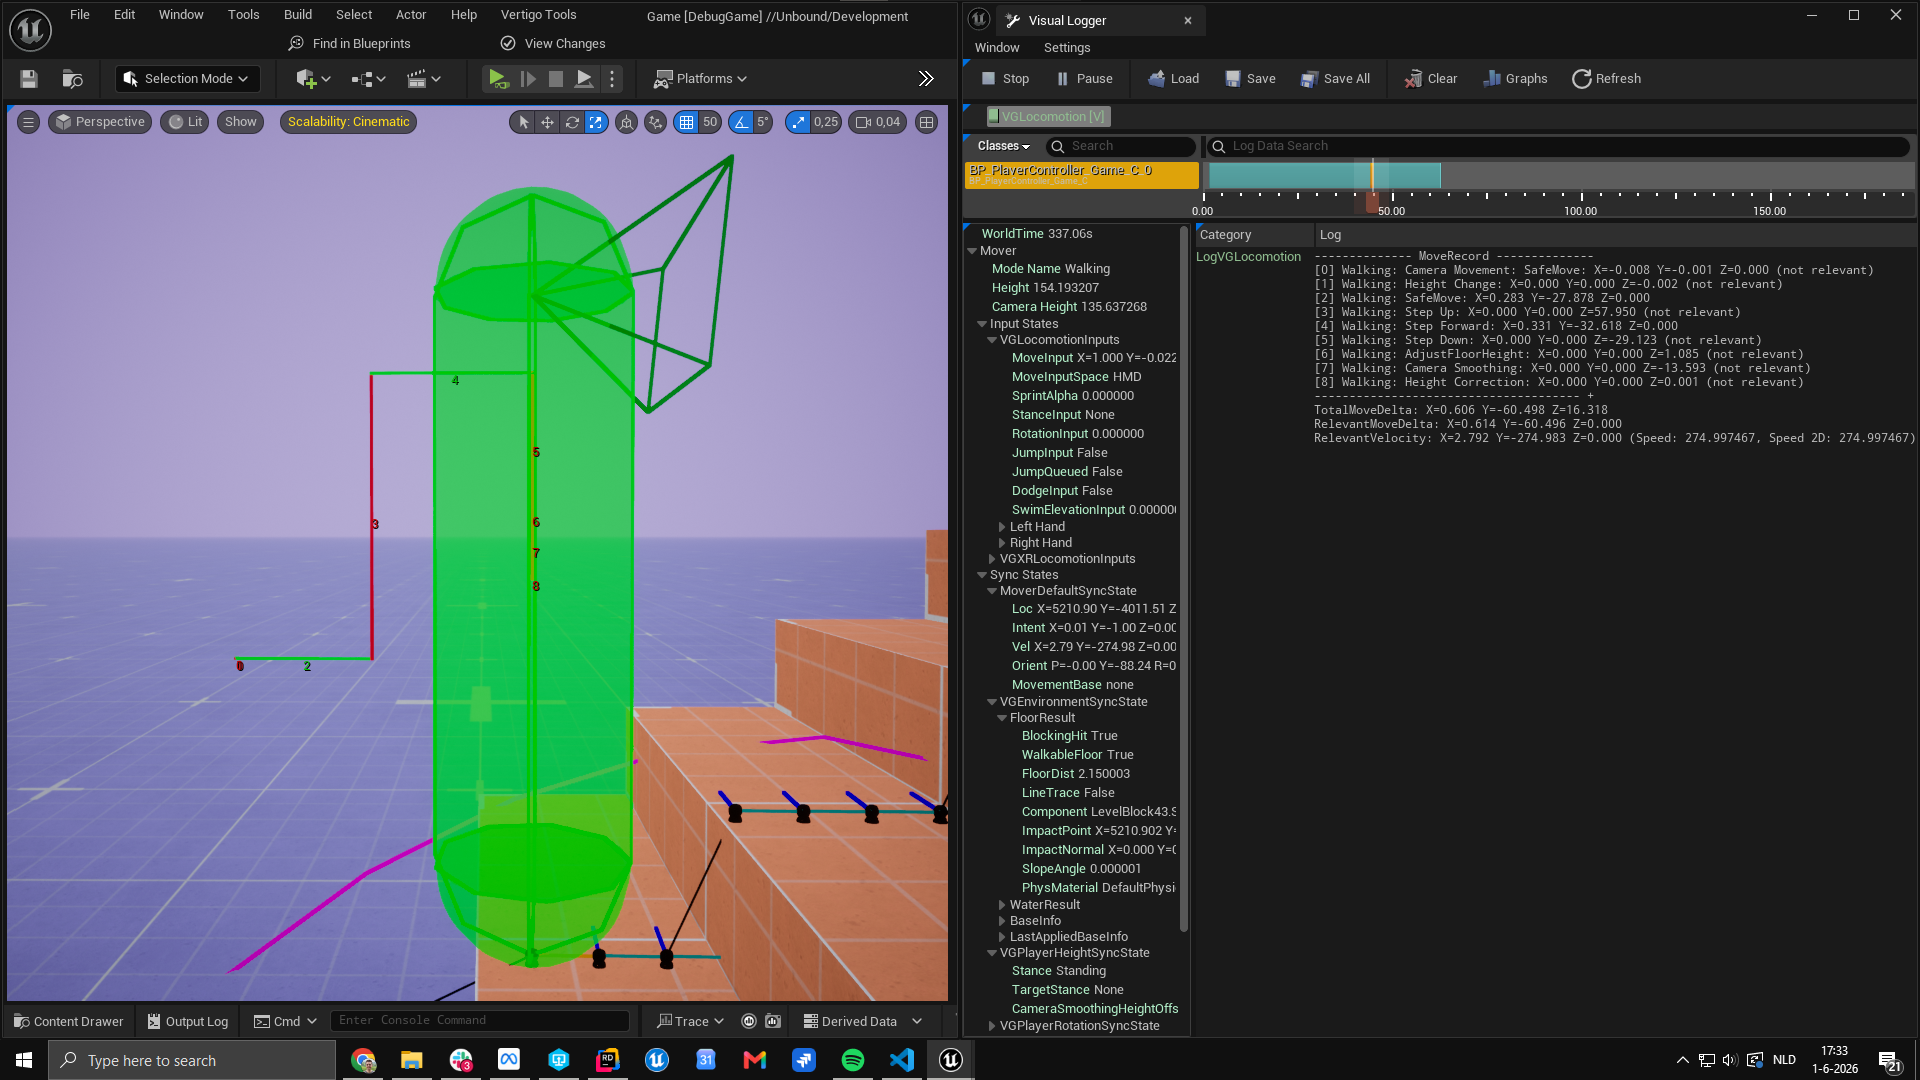
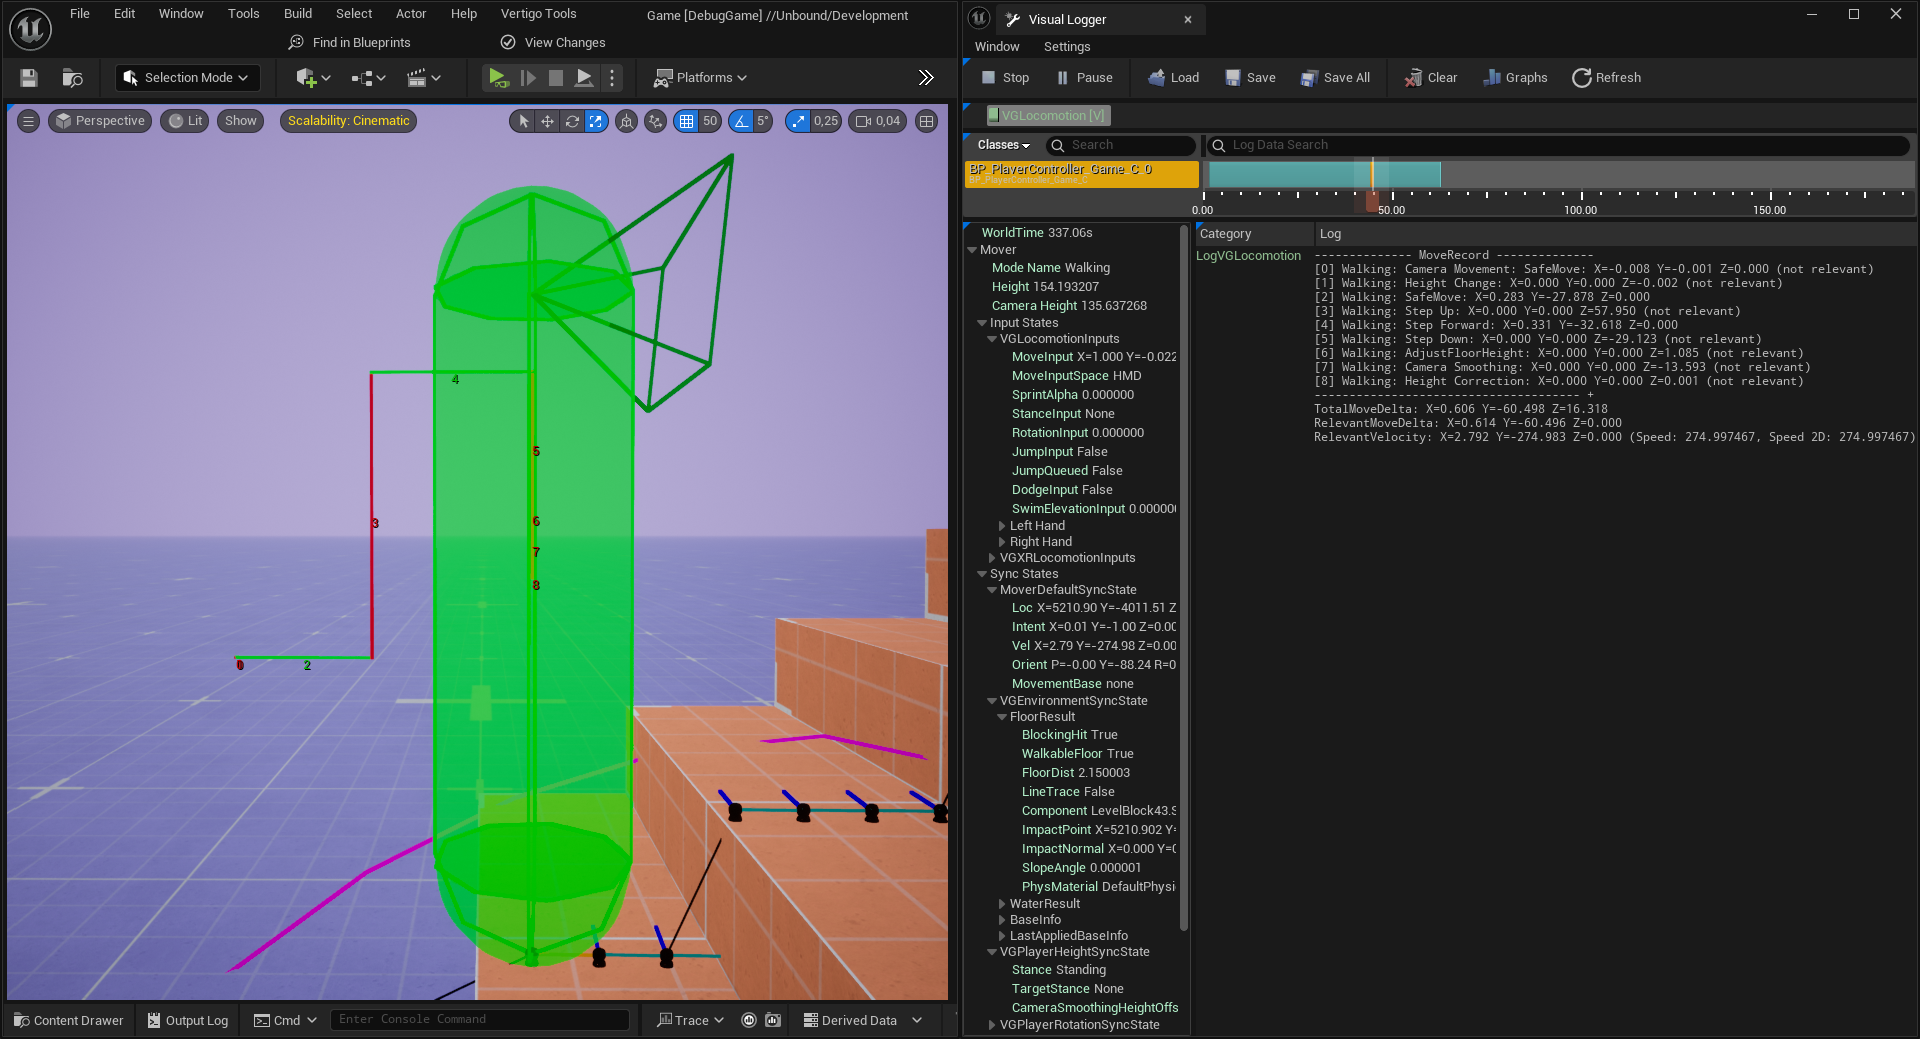
Crop and optimize videos.

diff --git a/_portfolio/Unbound.md b/_portfolio/Unbound.md
@@ -24,32 +24,32 @@ This was a massive technical undertaking that I owned end-to-end. Beyond the eng
 Since our movement system needed to be so varied and custom, I decided to use [Unreal's Mover system](https://dev.epicgames.com/documentation/en-us/unreal-engine/mover-in-unreal-engine) as a base. Its architecture makes it easy to create independent movement modes, which lent itself perfectly to this project. Mover also has support for Trajectory Generation, which we needed for the [Motion Matching](https://dev.epicgames.com/documentation/en-us/unreal-engine/motion-matching-in-unreal-engine) animation approach we were taking for our player character.
 
 <style>
-.video-grid {
+.video-grid, .video-grid__responsive {
     display: grid;
     gap: 1em;
     grid-template-columns: 1fr 1fr;
 }
 
 @container (max-width: 650px) {
-    .video-grid {
+    .video-grid__responsive {
         grid-template-columns: 1fr;
     }
 }
 </style>
 
 <div style="container-type: inline-size">
-    <div class="video-grid">
+    <div class="video-grid__responsive">
         <video autoplay muted loop width="100%">
-            <source src="/assets/portfolio/unbound/platforming.mp4" type="video/mp4">
+            <source src="/assets/portfolio/unbound/platforming-optimized.mp4" type="video/mp4">
         </video>
         <video autoplay muted loop width="100%">
-            <source src="/assets/portfolio/unbound/sliding.mp4" type="video/mp4">
+            <source src="/assets/portfolio/unbound/sliding-optimized.mp4" type="video/mp4">
         </video>
         <video autoplay muted loop width="100%">
-            <source src="/assets/portfolio/unbound/climbing.mp4" type="video/mp4">
+            <source src="/assets/portfolio/unbound/climbing-optimized.mp4" type="video/mp4">
         </video>
         <video autoplay muted loop width="100%">
-            <source src="/assets/portfolio/unbound/swimming.mp4" type="video/mp4">
+            <source src="/assets/portfolio/unbound/swimming-optimized.mp4" type="video/mp4">
         </video>
     </div>
 </div>
@@ -98,7 +98,7 @@ It would also be noticeable if the height correction would move you too far. Tha
 The height correction shouldn't be applied when a player is actively moving their head up and down, as this would disrupt the movement parity between their head and their view, which would be uncomfortable and lead to motion sickness. To prevent this, I simply check if the player is moving their head up or down faster than a generously small threshold of 10cm/s.
 
 <video autoplay muted loop width="100%">
-    <source src="/assets/portfolio/unbound/camera-movement/height-correction-with-text.mp4" type="video/mp4">
+    <source src="/assets/portfolio/unbound/camera-movement/height-correction-with-text-cropped.mp4" type="video/mp4">
 </video>
 
 A problem I ran into was that, due to human anatomy, pitching you head up or down would also move the headset up or down. The height correction system was adjusting for this, which felt unnatural.  
@@ -106,7 +106,7 @@ To fix this, I measured how the headset moved as different people pitched their 
 As an added bonus, I was also able to use this offset in other scenarios. If your height is being clamped, for example, you'll still be able to pitch your head without the clamping affecting that movement.
 
 <video autoplay muted loop width="100%">
-    <source src="/assets/portfolio/unbound/camera-movement/height-prediction.mp4" type="video/mp4">
+    <source src="/assets/portfolio/unbound/camera-movement/height-prediction-cropped.mp4" type="video/mp4">
 </video>
 
 ![](/assets/portfolio/unbound/camera-movement/pitch-to-camera-offset.png)
@@ -134,7 +134,7 @@ I wrote an algorithm which takes all the trajectory points, filters them and use
 2. While the player was walking around, any height changes would be ignored by the camera. Then, after all the movement was performed, a camera smoothing step was responsible for moving the camera back into alignment. Based on the ground plane estimate that was computed earlier, I could calculate where we estimate the player character to be in 2 meters. For this location, there was also a desired camera location. Then, it was as simple as moving the camera along the line between the previous camera location and the desired camera location. If the ground angle didn't change, the camera would be realigned after 2 meters.
 
 <video autoplay muted loop width="100%">
-    <source src="/assets/portfolio/unbound/camera-smoothing/visual-log.mp4" type="video/mp4">
+    <source src="/assets/portfolio/unbound/camera-smoothing/visual-log-cropped.mp4" type="video/mp4">
 </video>
 
 *The desired camera height (purple line) is drawn based on the 'ground plane estimate' (magenta circle). The camera is moved along the yellow line, so that it'll be at the desired height after 2 meters.*
@@ -143,7 +143,7 @@ The beauty of this system is that it doesn't just respond to height changes, it 
 Another advantage of this system is that it's stable when walking along a longer slope. Once the camera is realigned at the desired height, the '2 meter long line we move the camera along' will be parallel with the ground. This means that the camera will stably remain at the desired height, as if the smoothing wasn't even there.
 
 <div style="container-type: inline-size">
-    <div class="video-grid">
+    <div class="video-grid__responsive">
         <video autoplay muted loop width="100%">
             <source src="/assets/portfolio/unbound/camera-smoothing/disabled.mp4" type="video/mp4">
         </video>
@@ -227,7 +227,7 @@ The heights at which I check for mantle destinations also ensure that players wi
 The height checks also ensure that players will never mantle downwards. Instead they can position themselves over the platform, dropping themselves onto it.
 
 <video autoplay muted loop width="100%">
-    <source src="/assets/portfolio/unbound/mantling/dynamic-mantling.mp4" type="video/mp4">
+    <source src="/assets/portfolio/unbound/mantling/dynamic-mantling-cropped.mp4" type="video/mp4">
 </video>
 
 {% endcapture_markdown %}
@@ -248,14 +248,15 @@ $$\Delta \vec{\omega} = \frac{\vec{r} \times \vec{g}}{\Vert \vec{r} \Vert^{2}} \
 
 Where:
 
-- $\Delta \vec{\omega}$ is the change in angular velocity.
-- $\vec{r}$ is the position vector from the pivot to the pendulum bob, in our case the player.
-- $\Vert \vec{r} \Vert$ is the the length of the pendulum string.
-- $\vec{g}$ is the gravitation acceleration vector.
-- $\Delta t$ is the time step.
+- $$\Delta \vec{\omega}$$ is the change in angular velocity.
+- $$\vec{r}$$ is the position vector from the pivot to the pendulum bob, in our case the player.
+- $$\Vert \vec{r} \Vert$$ is the the length of the pendulum string.
+- $$\vec{g}$$ is the gravitation acceleration vector.
+- $$\Delta t$$ is the time step.
 
 This simple formula results in a stable pendulum motion, as long as you add sub-stepping to prevent lag spikes or low fps from introducing instability.  
-I also added some simple linear $(c_l)$ and quadratic $(c_q)$ drag:
+I also added some simple linear $$(c_l)$$ and quadratic $$(c_q)$$ drag:
+
 $$\Delta \vec{\omega} = - (c_l \Vert \vec{\omega} \Vert + c_q \Vert \vec{\omega} \Vert^2) \cdot \Delta t$$
 
 ### Player Input
@@ -314,10 +315,10 @@ During a regular non-orbiting swing, the `AngularAcceleration` vector is perpend
 <div style="container-type: inline-size">
     <div class="video-grid">
         <video autoplay muted loop width="100%">
-            <source src="/assets/portfolio/unbound/rope-swinging/orbiting-before.mp4" type="video/mp4">
+            <source src="/assets/portfolio/unbound/rope-swinging/orbiting-before-cropped.mp4" type="video/mp4">
         </video>
         <video autoplay muted loop width="100%">
-            <source src="/assets/portfolio/unbound/rope-swinging/orbiting-after.mp4" type="video/mp4">
+            <source src="/assets/portfolio/unbound/rope-swinging/orbiting-after-cropped.mp4" type="video/mp4">
         </video>
     </div>
 </div>
@@ -333,26 +334,24 @@ $$\Vert \vec{\omega} \Vert = \sqrt{\frac{2 \cdot \Vert \vec{g} \Vert \cdot (\cos
 {% capture_markdown swing_angle_clamping_derivation %}
 #### Derivation
 
-We can calculate the maximum velocity by using conservation of energy.  
-At the given angle $(\theta_i)$, the system will have some amount of potential energy $(E_{p,i})$ and kinetic energy $(E_{k,i})$.  
-At the maximum angle $(\theta_{\text{max}})$, the system will have some amount of potential energy $(E_{p,f})$ but no kinetic energy.  
+We can calculate the maximum velocity by using conservation of energy. At the given angle $$(\theta_i)$$, the system will have some amount of potential energy $$(E_{p,i})$$ and kinetic energy $$(E_{k,i})$$. At the maximum angle $$(\theta_{\text{max}})$$, the system will have some amount of potential energy $$(E_{p,f})$$ but no kinetic energy.  
 As energy is conserved:
 
 $$E_{p,i} + E_{k,i} = E_{p,f}$$
 
-Substitute $E_p = m g h$ and $E_k = \frac{1}{2} m \Vert \vec{v} \Vert^2$
+Substitute $$E_p = m g h$$ and $$E_k = \frac{1}{2} m \Vert \vec{v} \Vert^2$$
 
 $$m \Vert \vec{g} \Vert h_i + \frac{1}{2} m \Vert \vec{v}_i \Vert^2 = m \Vert \vec{g} \Vert h_f$$
 
-Substitute $h = \Vert r \Vert (1 - \cos(\theta))$ and $\vec{v} = \vec{\omega} \times \vec{r}$
+Substitute $$h = \Vert r \Vert (1 - \cos(\theta))$$ and $$\vec{v} = \vec{\omega} \times \vec{r}$$
 
 $$m \Vert \vec{g} \Vert \Vert r \Vert (1 - \cos(\theta_i)) + \frac{1}{2} m \Vert \vec{\omega} \times \vec{r} \Vert^2 = m \Vert \vec{g} \Vert \Vert r \Vert (1 - \cos(\theta_{\text{max}}))$$
 
-Substitute $\Vert \vec{a} \times \vec{b} \Vert = \Vert \vec{a} \Vert \Vert \vec{b} \Vert \sin(\angle(\vec{a} \times \vec{b}))$
+Substitute $$\Vert \vec{a} \times \vec{b} \Vert = \Vert \vec{a} \Vert \Vert \vec{b} \Vert \sin(\angle(\vec{a} \times \vec{b}))$$
 
 $$m \Vert \vec{g} \Vert \Vert r \Vert (1 - \cos(\theta_i)) + \frac{1}{2} m (\Vert \vec{\omega} \Vert \Vert \vec{r} \Vert \sin(\angle(\vec{\omega}, \vec{r})))^2 = m \Vert \vec{g} \Vert \Vert r \Vert (1 - \cos(\theta_{\text{max}}))$$
 
-Solve for $\Vert \vec{\omega} \Vert$
+Solve for $$\Vert \vec{\omega} \Vert$$
 
 $$\Vert \vec{g} \Vert \Vert r \Vert (1 - \cos(\theta_i)) + \frac{1}{2} (\Vert \vec{\omega} \Vert \Vert \vec{r} \Vert \sin(\angle(\vec{\omega}, \vec{r})))^2 = \Vert \vec{g} \Vert \Vert r \Vert (1 - \cos(\theta_{\text{max}}))$$
 
@@ -371,7 +370,7 @@ $$\Vert \vec{\omega} \Vert = \sqrt{\frac{2 \Vert \vec{g} \Vert (\cos(\theta_i) -
 
 {% include card.html excerpt=swing_angle_clamping_formula collapsed_content=swing_angle_clamping_derivation %}
 
-This formula does have one issue, in that it doesn't return a real result if $\theta > \theta_{\text{max}}$. Returning 0 instead makes sense, but does mean that the rope would get stuck if it ever got higher than the maximum angle. Which can happen due to floating point innacuaries and the discrete math. To solve this, I simply interpolated the `AngularVelocity` to this maximum angular speed instead. This meant the rope would never get fully stuck, but would in practice still be clamped to within a degree of the maximum swing angle.
+This formula does have one issue, in that it doesn't return a real result if $$\theta > \theta_{\text{max}}$$. Returning 0 instead makes sense, but does mean that the rope would get stuck if it ever got higher than the maximum angle. Which can happen due to floating point innacuaries and the discrete math. To solve this, I simply interpolated the `AngularVelocity` to this maximum angular speed instead. This meant the rope would never get fully stuck, but would in practice still be clamped to within a degree of the maximum swing angle.
 
 {% endcapture_markdown %}
 
@@ -384,10 +383,11 @@ This formula does have one issue, in that it doesn't return a real result if $\t
 {% capture_markdown swimming %}
 
 We wanted the swimming mode to feel realistic, requiring the player to actually swing their arms to move themselves around. That's why I decided to model the entire system around drag. The player's body would experience water drag, slowing them down. But the hands would also experience drag as the player swung them around, speeding the player up.  
-The formula for drag boils down to $F = c \cdot v^2$, where $F$ is the drag force, $c$ is an amalgamation of various constants and $v$ is the velocity difference between the object and the water. While this was physically accurate, it didn't feel good. The exponential nature of drag meant that the drag on the body felt too strong while you were moving quickly, but it also wasn't strong enough to bring you too a full stop. That's why I setup a system which allowed us to tweak constant, linear and quadratic drag separately. This gave us the tools to tweak the system to feel as floaty as you'd expect from swimming, while still giving you a sense of control. I used this simple formula:  
+The formula for drag boils down to $$F = c \cdot v^2$$, where $$F$$ is the drag force, $$c$$ is an amalgamation of various constants and $$v$$ is the velocity difference between the object and the water. While this was physically accurate, it didn't feel good. The exponential nature of drag meant that the drag on the body felt too strong while you were moving quickly, but it also wasn't strong enough to bring you too a full stop. That's why I setup a system which allowed us to tweak constant, linear and quadratic drag separately. This gave us the tools to tweak the system to feel as floaty as you'd expect from swimming, while still giving you a sense of control. I used this simple formula:
+
 $$v_f = v_i - \Delta t(c_q \cdot v_i^2 + c_l \cdot v_i + c_c)$$
 
-I did run into an issue, in that the drag felt inconsistent due to the discrete calculation. This is because the deceleration was calculated for the full timestep $t$, as if we were moving with a velocity of $v_i$ for the full timestep. In reality, that deceleration would constantly lower $v_i$ and thus the deceleration would also be lower. The simple calculation thus resulted in a deceleration that was too high and inconsistent depending on frame rate.  
+I did run into an issue, in that the drag felt inconsistent due to the discrete calculation. This is because the deceleration was calculated for the full timestep $$t$$, as if we were moving with a velocity of $$v_i$$ for the full timestep. In reality, that deceleration would constantly lower $$v_i$$ and thus the deceleration would also be lower. The simple calculation thus resulted in a deceleration that was too high and inconsistent depending on frame rate.  
 The solution was to use integration, to calculate the area under the velocity curve. This results in the following formula:
 
 {% capture_markdown swimming_formula %}
@@ -397,7 +397,7 @@ $$v(t) = \frac{c_l \cdot v_0 \cdot e^{-c_lt}}{c_l + c_q \cdot v_0(1 - e^{-c_lt})
 {% capture_markdown swimming_derivation%}
 ### Derivation
 
-We look at the velocity change $(dv)$ over an infinitesimally small time step $(dt)$.
+We look at the velocity change $$(dv)$$ over an infinitesimally small time step $$(dt)$$.
 
 $$\frac{dv}{dt} = -(c_q v^2 + c_l v)$$
 
@@ -413,8 +413,8 @@ $$\frac{1}{v(c_q v + c_l)} = \frac{A}{v} + \frac{B}{c_q v + c_l}$$
 
 $$1 = A(c_q v + c_l) + Bv$$
 
-If $v = 0$, then $1 = A(c_l) + B \cdot 0 \implies A = 1/c_l$  
-If $v = -c_l / c_q$, then $1 = A(0) + B(-c_l / c_q) \implies B = -c_q / c_l$.
+If $$v = 0$$, then $$1 = A(c_l) + B \cdot 0 \implies A = 1/c_l$$  
+If $$v = -c_l / c_q$$, then $$1 = A(0) + B(-c_l / c_q) \implies B = -c_q / c_l$$.
 
 Substitute and integrate.
 
@@ -430,7 +430,7 @@ $$\frac{1}{c_l} \left( \ln \left| \frac{v_t}{c_q v_t + c_l} \right| - \ln \left|
 
 $$\ln \left| \frac{v_t(c_q v_0 + c_l)}{v_0(c_q v_t + c_l)} \right| = -c_l t$$
 
-Solve for $v_t$ and simplify.
+Solve for $$v_t$$ and simplify.
 
 $$\frac{v_t(c_q v_0 + c_l)}{v_0(c_q v_t + c_l)} = e^{-c_l t}$$
 
@@ -484,10 +484,10 @@ FVector UVGSwimmingUtils::ApplyDrag(const FVector& Velocity, const float Mass,
 }
 {% endhighlight %}
 
-While writing this I figured I'd give the full derivation a shot, with the constant drag included in the integration. The math does work out, but unfortunately splits off into 3 separate cases based on the sign of $k$, and a case if the quadratic drag is 0.
+While writing this I figured I'd give the full derivation a shot, with the constant drag included in the integration. The math does work out, but unfortunately splits off into 3 separate cases based on the sign of $$k$$, and a case if the quadratic drag is 0.
 
 {% capture_markdown swimming_derivation_full %}
-We look at the velocity change $(dv)$ over an infinitesimally small time step $(dt)$.
+We look at the velocity change $$(dv)$$ over an infinitesimally small time step $$(dt)$$.
 
 $$\frac{dv}{dt} = -(c_q v^2 + c_l v + c_c)$$
 
@@ -507,16 +507,16 @@ $$c_q \left( \left(v + \frac{c_l}{2c_q} \right)^2 - \left( \frac{c_l}{2c_q} \rig
 
 $$c_q \left( \left(v + \frac{c_l}{2c_q} \right)^2 + \frac{c_c}{c_q} - \left( \frac{c_l}{2c_q} \right)^2 \right)$$
 
-We now have an equation in the completed-square form: $(v + h)^2 + k$,  
-where h = $\frac{c_l}{2c_q}$ and k = $\frac{c_c}{c_q} - h^2$.
+We now have an equation in the completed-square form: $$(v + h)^2 + k$$,  
+where h = $$\frac{c_l}{2c_q}$$ and k = $$\frac{c_c}{c_q} - h^2$$.
 
 $$\int_{v_0}^{v_t} \frac{1}{c_q((v + h)^2 + k)} dv = \int_0^t -dt$$
 
 $$\frac{1}{c_q} \int_{v_0}^{v_t} \frac{1}{(v + h)^2 + k} dv = \int_0^t -dt$$
 
-Case 1: $k > 0$.  
-We use the standard form $\int \frac{1}{u^2 + a^2} du = \frac{1}{a} \arctan(\frac{u}{a})$.  
-Let $a^2 = k$ and $u = v + h$.
+Case 1: $$k > 0$$.  
+We use the standard form $$\int \frac{1}{u^2 + a^2} du = \frac{1}{a} \arctan(\frac{u}{a})$$.  
+Let $$a^2 = k$$ and $$u = v + h$$.
 
 $$\frac{1}{c_q} \int_{u_0}^{u_t} \frac{1}{u^2 + a^2} du = \int_0^t -dt$$
 
@@ -532,9 +532,9 @@ $$u_t = a \cdot \tan \left( \arctan \left( \frac{u_0}{a} \right) - c_q a t \righ
 
 $$v_t = \sqrt{k} \cdot \tan \left( \arctan \left( \frac{v_0 + h}{\sqrt{k}} \right) - c_q \sqrt{k} t \right) - h$$
 
-Case 2: $k < 0$  
-We use the standard form $\int \frac{1}{u^2 - a^2} du = -\frac{1}{a} \text{artanh}(\frac{u}{a})$  
-Let $-a^2 = k$ and $u = v + h$
+Case 2: $$k < 0$$  
+We use the standard form $$\int \frac{1}{u^2 - a^2} du = -\frac{1}{a} \text{artanh}(\frac{u}{a})$$  
+Let $$-a^2 = k$$ and $$u = v + h$$
 
 $$\frac{1}{c_q} \int_{u_0}^{u_t} \frac{1}{u^2 - a^2} du = \int_0^t -dt$$
 
@@ -550,7 +550,7 @@ $$u_t = a \cdot \tanh \left( \operatorname{artanh} \left( \frac{u_0}{a} \right) 
 
 $$v_t = \sqrt{k} \cdot \tanh \left( \operatorname{artanh} \left( \frac{v_0 + h}{\sqrt{k}} \right) + c_q \sqrt{k} t \right) - h$$
 
-Case 3: $k = 0$
+Case 3: $$k = 0$$
 
 $$\frac{1}{c_q} \int_{v_0}^{v_t} \frac{1}{(v + h)^2} dv = \int_0^t -dt$$
 
@@ -618,7 +618,8 @@ The sliding system has 3 different slide 'styles' depending on angle of the grou
 ### Horizontal Ground
 
 On horizontal ground, the player can initiate a slide by crouching down while they're sprinting. This initiates a slide, with a configurable distance.  
-I don't actually track the distance of the slide though. Instead, I apply a deceleration value to the current velocity, which I precalculated such that the slide will have the desired distance. I calculate the deceleration value using this formula:  
+I don't actually track the distance of the slide though. Instead, I apply a deceleration value to the current velocity, which I precalculated such that the slide will have the desired distance. I calculate the deceleration value using this formula:
+
 $$\text{Deceleration} = \frac{\text{StartSpeed}^2 - {EndSpeed}^2}{2 \cdot Distance}$$
 
 The advantage of this approach, is that it makes it simple to dynamically switch in and out of the 'horizontal ground' style depending on the angle of the ground. We can transition into this style at any speed and the system will be able to handle it. If you get onto horizontal ground with a lower speed, then the slide will simply be shorter.
@@ -676,7 +677,7 @@ In Mover, 'input commands' and the system's state ('sync states') are stored in 
 I decided to leverage this for our debugging workflow, by creating an inherited `FVGMoverDataStructBase` type with [Visual Logger](https://dev.epicgames.com/documentation/en-us/unreal-engine/visual-logger-in-unreal-engine) integration. This allowed us to render useful visualizations and log the complete state of the system every frame. This was an incredibly useful tool, to quickly diagnose and debug problems with the locomotion system.
 
 <video autoplay muted loop width="100%">
-    <source src="/assets/portfolio/unbound/debug-tooling//visual-log.mp4" type="video/mp4">
+    <source src="/assets/portfolio/unbound/debug-tooling//visual-log-cropped.mp4" type="video/mp4">
 </video>
 
 {% highlight C++ %}